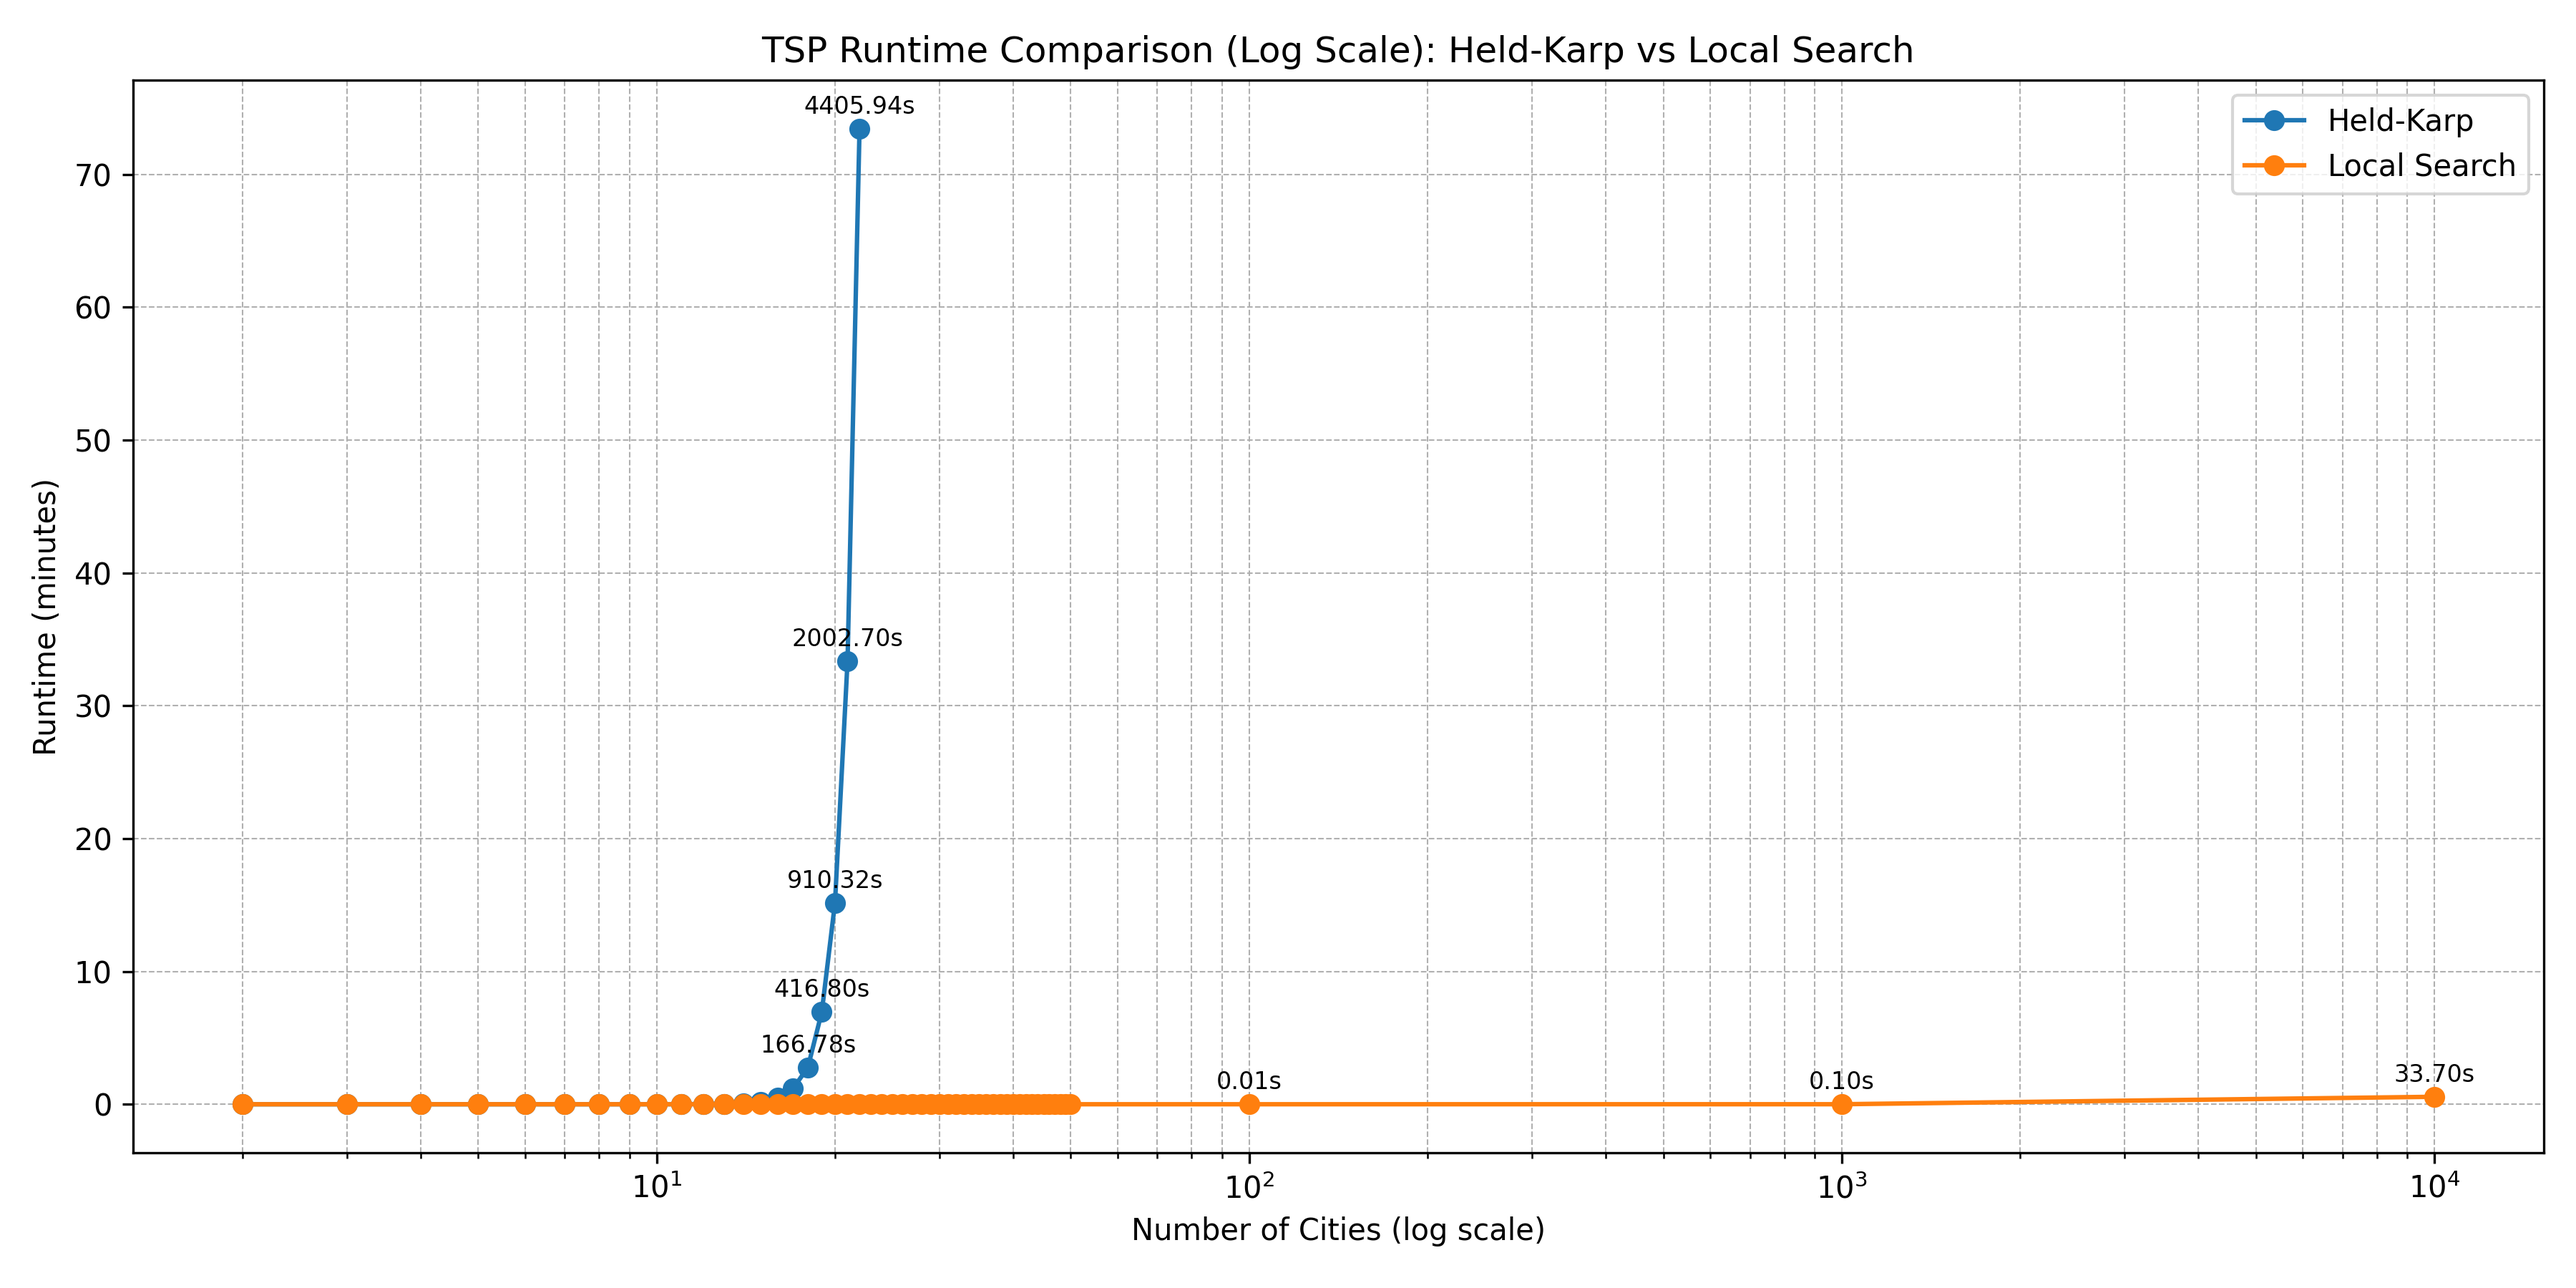
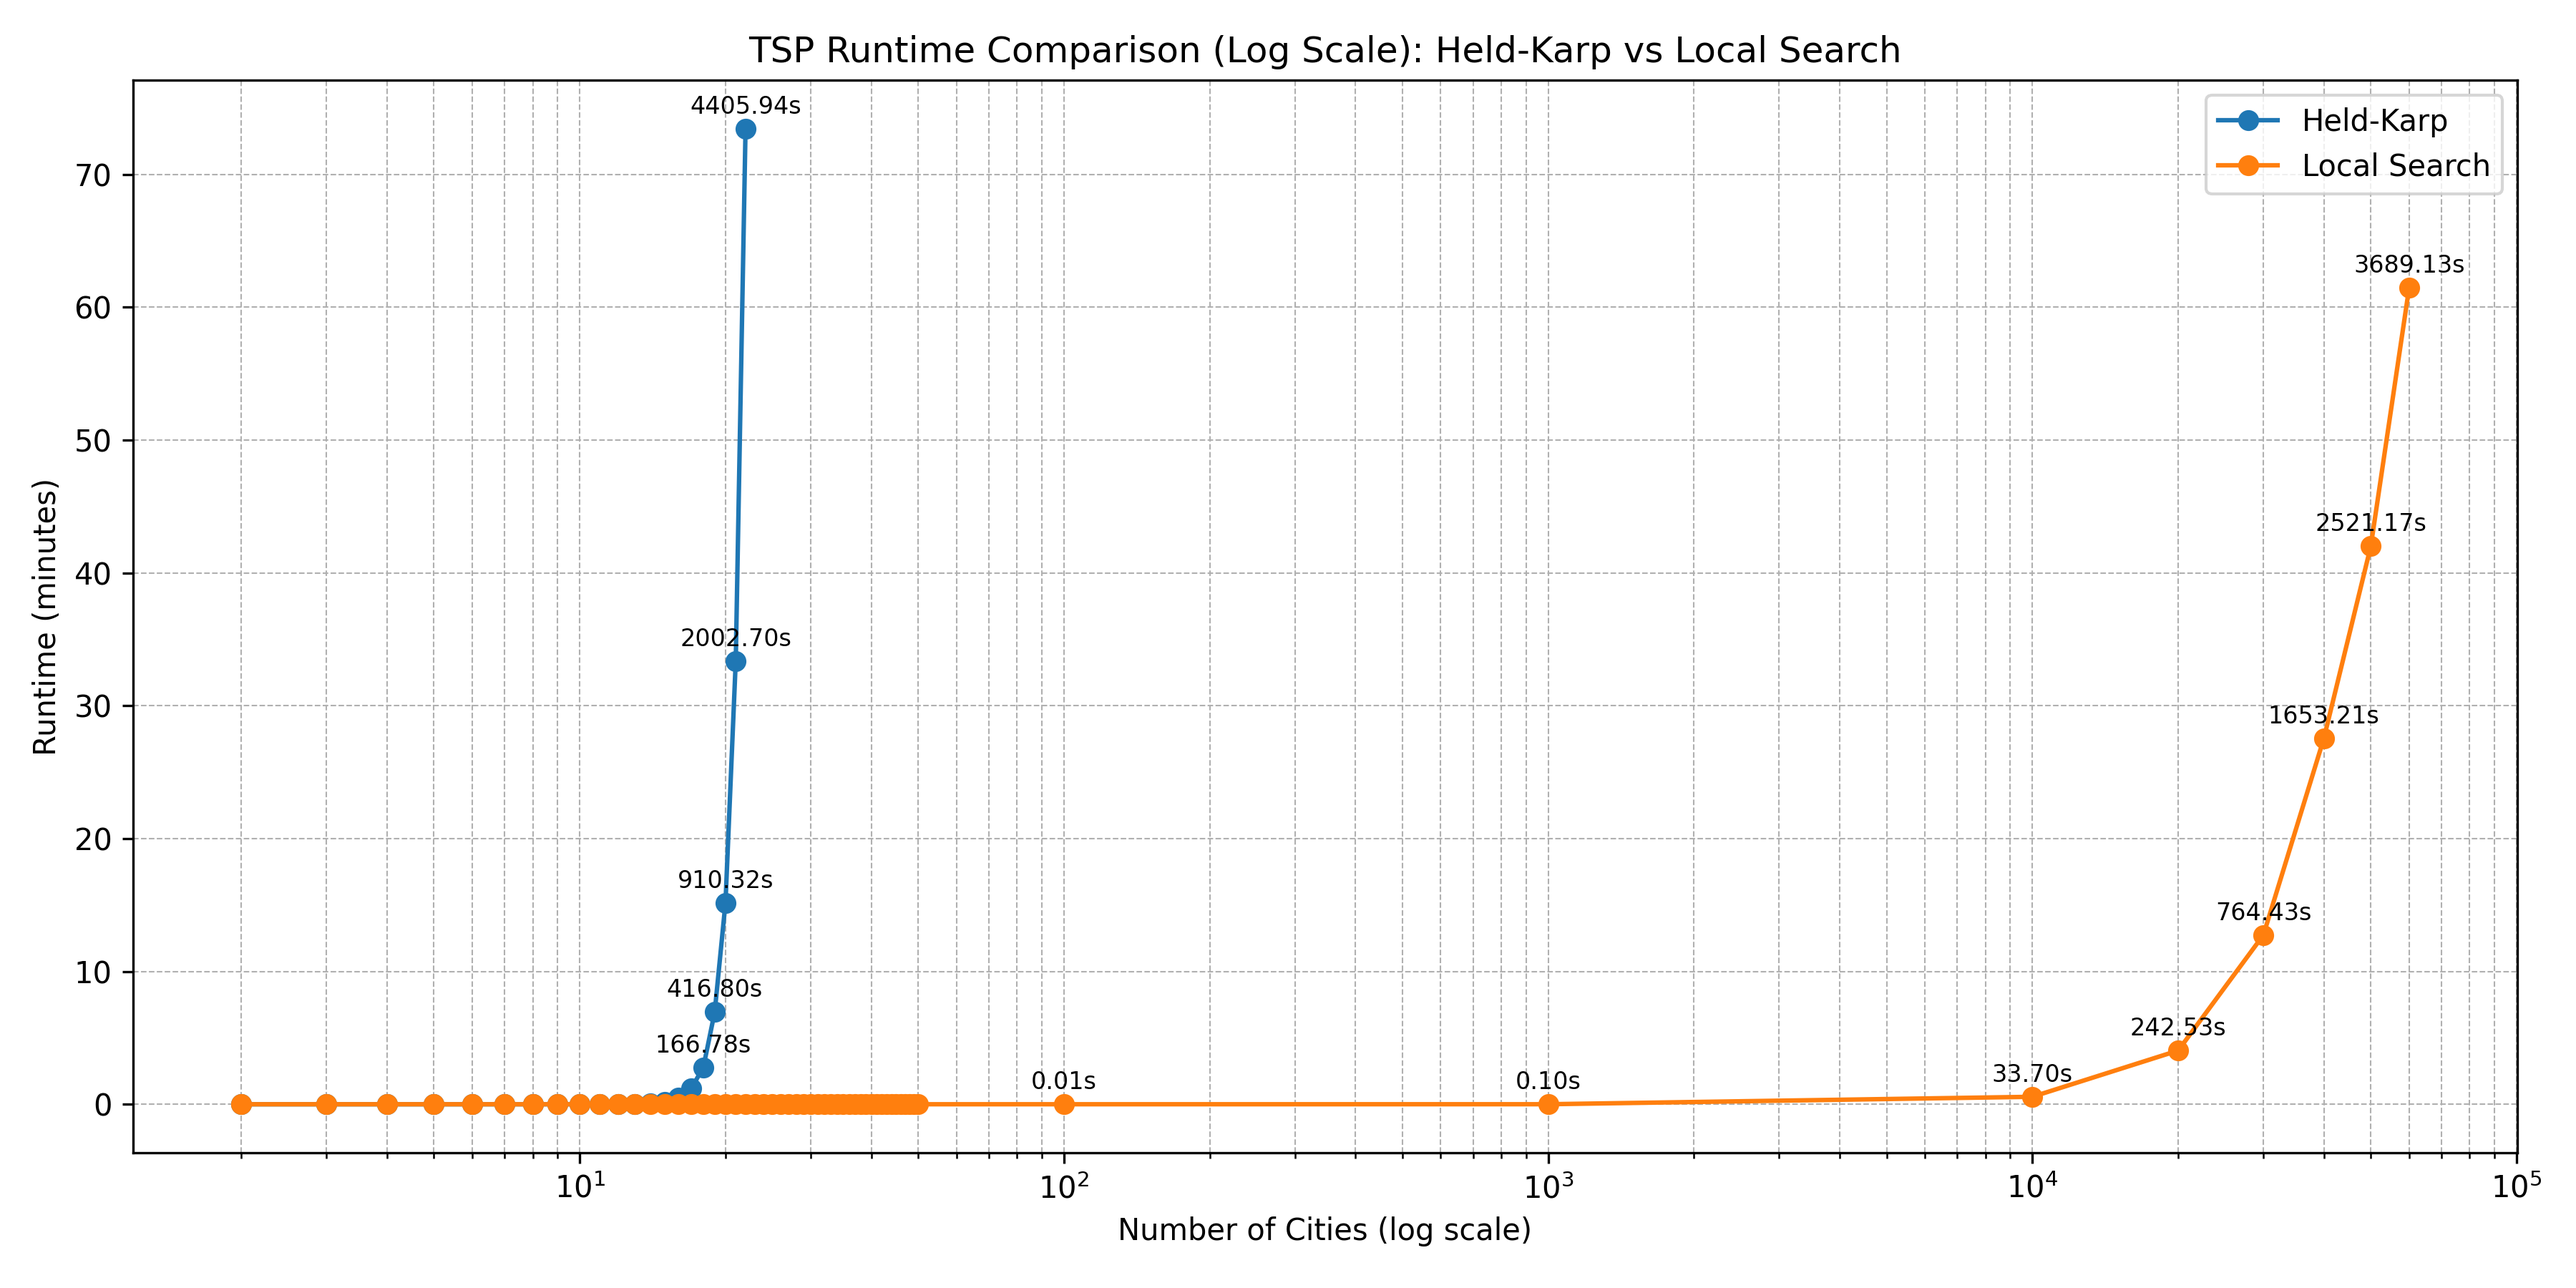
ls runtime over an hr

diff --git a/plot_output.py b/plot_output.py
@@ -16,7 +16,9 @@ ls_data = [
     (32, 0.01), (33, 0.00), (34, 0.01), (35, 0.00), (36, 0.00), (37, 0.00),
     (38, 0.00), (39, 0.01), (40, 0.00), (41, 0.01), (42, 0.01), (43, 0.00),
     (44, 0.00), (45, 0.01), (46, 0.01), (47, 0.01), (48, 0.01), (49, 0.01),
-    (50, 0.00), (100, 0.01), (1000, 0.10), (10000, 33.70)
+    (50, 0.00), (100, 0.01), (1000, 0.10), (10000, 33.70),
+    (20000, 242.53), (30000, 764.43), (40000, 1653.21), (50000, 2521.17),
+    (60000, 3689.13)
 ]
 
 hk_x_all, hk_y_all = zip(*hk_data)
